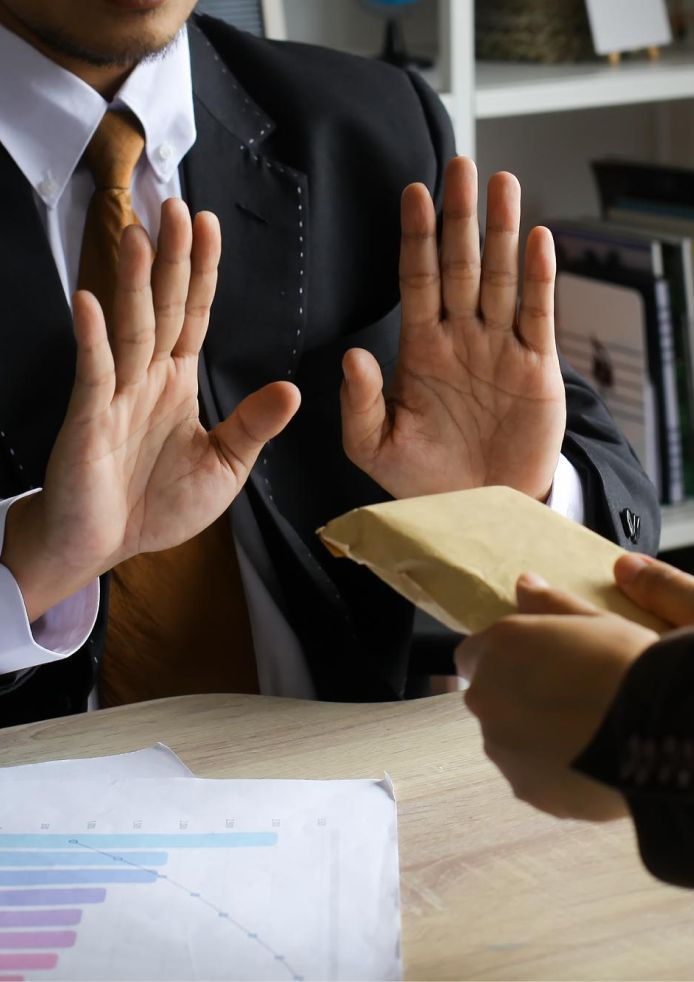
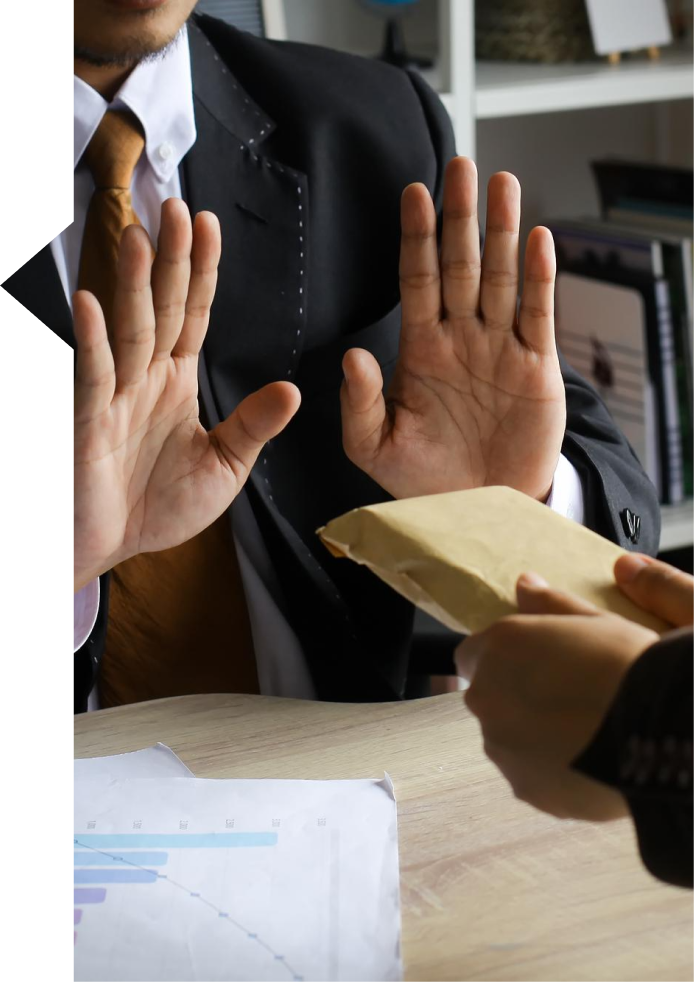
scenario 3 decision pages update

diff --git a/src/output.css b/src/output.css
@@ -598,10 +598,6 @@ video {
   bottom: -6rem;
 }
 
-.-left-1{
-  left: -0.25rem;
-}
-
 .-right-\[3rem\]{
   right: -3rem;
 }
@@ -904,6 +900,10 @@ video {
   height: 100vh;
 }
 
+.h-\[95px\]{
+  height: 95px;
+}
+
 .max-h-full{
   max-height: 100%;
 }
@@ -940,8 +940,8 @@ video {
   width: 136px;
 }
 
-.w-\[3\.95vw\]{
-  width: 3.95vw;
+.w-\[16\.6vw\]{
+  width: 16.6vw;
 }
 
 .w-\[43\.3\%\]{
@@ -950,6 +950,10 @@ video {
 
 .w-\[46px\]{
   width: 46px;
+}
+
+.w-\[5\.26vw\]{
+  width: 5.26vw;
 }
 
 .w-\[6\.3vw\]{
@@ -993,16 +997,12 @@ video {
   width: 100vw;
 }
 
-.w-\[\]{
-  width: ;
+.w-\[550px\]{
+  width: 550px;
 }
 
-.w-\[5\.26vw\]{
-  width: 5.26vw;
-}
-
-.w-\[16\.6vw\]{
-  width: 16.6vw;
+.w-\[95px\]{
+  width: 95px;
 }
 
 .max-w-\[44\%\]{
@@ -1079,6 +1079,10 @@ video {
 
 .gap-\[1\.25rem\]{
   gap: 1.25rem;
+}
+
+.gap-\[180px\]{
+  gap: 180px;
 }
 
 .gap-\[99px\]{
@@ -1214,11 +1218,6 @@ video {
   background-color: rgb(255 255 255 / var(--tw-bg-opacity));
 }
 
-.bg-\[\#FFBB00\]{
-  --tw-bg-opacity: 1;
-  background-color: rgb(255 187 0 / var(--tw-bg-opacity));
-}
-
 .object-contain{
   -o-object-fit: contain;
      object-fit: contain;
@@ -1333,16 +1332,12 @@ video {
   font-size: 16.5px;
 }
 
-.text-\[2\.53rem\]{
-  font-size: 2.53rem;
+.text-\[2\.5rem\]{
+  font-size: 2.5rem;
 }
 
 .text-\[52\.5px\]{
   font-size: 52.5px;
-}
-
-.text-\[2\.5rem\]{
-  font-size: 2.5rem;
 }
 
 .font-bold{
@@ -1766,10 +1761,6 @@ video {
     top: 22%;
   }
 
-  .lg-zoom\:top-\[25\%\]{
-    top: 25%;
-  }
-
   .lg-zoom\:mb-\[18\.75px\]{
     margin-bottom: 18.75px;
   }
@@ -1780,10 +1771,6 @@ video {
 
   .lg-zoom\:h-\[45px\]{
     height: 45px;
-  }
-
-  .lg-zoom\:h-\[60px\]{
-    height: 60px;
   }
 
   .lg-zoom\:h-\[6px\]{
@@ -1798,10 +1785,6 @@ video {
     width: 21.25vw;
   }
 
-  .lg-zoom\:w-\[320px\]{
-    width: 320px;
-  }
-
   .lg-zoom\:w-\[486px\]{
     width: 486px;
   }
@@ -1812,10 +1795,6 @@ video {
 
   .lg-zoom\:w-\[75px\]{
     width: 75px;
-  }
-
-  .lg-zoom\:w-\[12rem\]{
-    width: 12rem;
   }
 
   .lg-zoom\:pb-\[2\.5rem\]{
@@ -1836,10 +1815,6 @@ video {
 
   .lg-zoom\:pt-\[3rem\]{
     padding-top: 3rem;
-  }
-
-  .lg-zoom\:pr-\[30px\]{
-    padding-right: 30px;
   }
 
   .lg-zoom\:text-\[14\.5px\]{
@@ -1900,10 +1875,6 @@ video {
     padding-top: 2.875rem;
     padding-bottom: 2.875rem;
   }
-
-  .\32xl\:text-\[3\.375rem\]{
-    font-size: 3.375rem;
-  }
 }
 
 @media (min-width: 1600px){
@@ -1949,10 +1920,6 @@ video {
 
   .xl-zoom\:top-\[22\%\]{
     top: 22%;
-  }
-
-  .xl-zoom\:top-\[27\%\]{
-    top: 27%;
   }
 
   .xl-zoom\:top-\[3rem\]{
@@ -2003,6 +1970,10 @@ video {
     margin-top: 8px;
   }
 
+  .xl-zoom\:mt-\[130px\]{
+    margin-top: 130px;
+  }
+
   .xl-zoom\:h-2{
     height: 0.5rem;
   }
@@ -2025,6 +1996,10 @@ video {
 
   .xl-zoom\:h-\[8px\]{
     height: 8px;
+  }
+
+  .xl-zoom\:h-\[122px\]{
+    height: 122px;
   }
 
   .xl-zoom\:w-\[10\.5rem\]{
@@ -2055,10 +2030,6 @@ video {
     width: 191px;
   }
 
-  .xl-zoom\:w-\[320px\]{
-    width: 320px;
-  }
-
   .xl-zoom\:w-\[648px\]{
     width: 648px;
   }
@@ -2075,8 +2046,12 @@ video {
     width: 9.6rem;
   }
 
-  .xl-zoom\:w-\[12rem\]{
-    width: 12rem;
+  .xl-zoom\:w-\[122px\]{
+    width: 122px;
+  }
+
+  .xl-zoom\:w-\[817\.5px\]{
+    width: 817.5px;
   }
 
   .xl-zoom\:max-w-\[43\%\]{
@@ -2086,6 +2061,11 @@ video {
   .xl-zoom\:gap-x-0{
     -moz-column-gap: 0px;
          column-gap: 0px;
+  }
+
+  .xl-zoom\:gap-x-\[54px\]{
+    -moz-column-gap: 54px;
+         column-gap: 54px;
   }
 
   .xl-zoom\:p-\[3rem\]{
@@ -2134,10 +2114,6 @@ video {
 
   .xl-zoom\:pt-\[5px\]{
     padding-top: 5px;
-  }
-
-  .xl-zoom\:pr-\[56px\]{
-    padding-right: 56px;
   }
 
   .xl-zoom\:text-\[18px\]{

diff --git a/src/page-5.html b/src/page-5.html
@@ -19,7 +19,7 @@
     </p>
   </div>
 
-  <div class="flex gap-[99px] h-[calc(85vh-105px)] xl-zoom:mt-[75px] mt-[50px]">
+  <div class="flex gap-[180px] h-[calc(85vh-105px)] xl-zoom:mt-[75px] mt-[50px]">
     <div class=" pt-[40px] xl-zoom:w-[648px] lg-zoom:w-[486px] shrink-0">
       <div class="flex flex-col gap-[1.25rem] text-white">
         <p class="xl-zoom:text-[22px] lg-zoom:text-[16.5px] font-medium xl-zoom:leading-[32px] lg-zoom:leading-[24px] -mt-5"

diff --git a/src/page-6.html b/src/page-6.html
@@ -20,7 +20,7 @@
   </div>
   <div class="absolute top-[4rem] left-0"></div>
 
-  <div class="flex gap-[99px] h-[calc(85vh-105px)] xl-zoom:mt-[75px] mt-[50px]">
+  <div class="flex gap-[180px] h-[calc(85vh-105px)] xl-zoom:mt-[75px] mt-[50px]">
     <div class="pt-[40px] xl-zoom:w-[648px] lg-zoom:w-[486px] shrink-0">
       <div
         class="flex flex-col text-white h-full justify-end pb-[40px] xl-zoom:-mt-[80px] -mt-[30px]"

diff --git a/src/page-7.html b/src/page-7.html
@@ -20,7 +20,7 @@
   </div>
   <div class="absolute top-[4rem] left-0"></div>
 
-  <div class="flex gap-[99px] h-[calc(85vh-105px)] xl-zoom:mt-[75px] mt-[50px]">
+  <div class="flex gap-[180px] h-[calc(85vh-105px)] xl-zoom:mt-[75px] mt-[50px]">
     <div class="pt-[40px] xl-zoom:w-[648px] lg-zoom:w-[486px] shrink-0">
       <div
         class="flex flex-col text-white h-full justify-end pb-[40px] xl-zoom:-mt-[80px] -mt-[30px]"

diff --git a/src/page-8.html b/src/page-8.html
@@ -24,7 +24,7 @@
         alt=""
       />
     </div>
-    <div class="xl-zoom:mt-[110px] mt-[90px] ">
+    <div class="xl-zoom:mt-[130px] mt-[90px] ">
       <div class="">
         <h1
           class="text-white font-bold xl-zoom:text-[58px] lg-zoom:text-[43.5px]"
